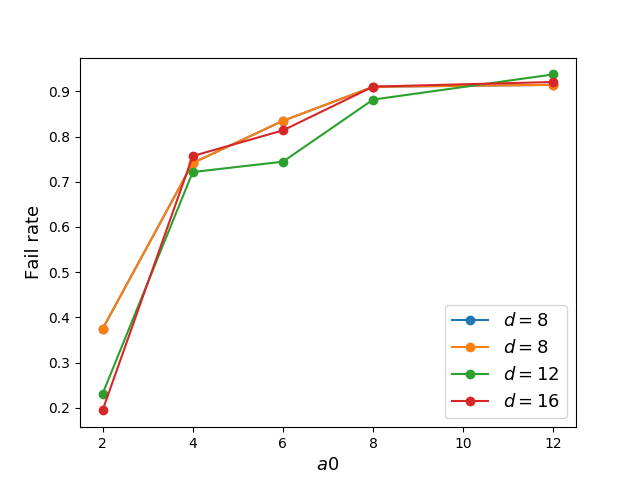
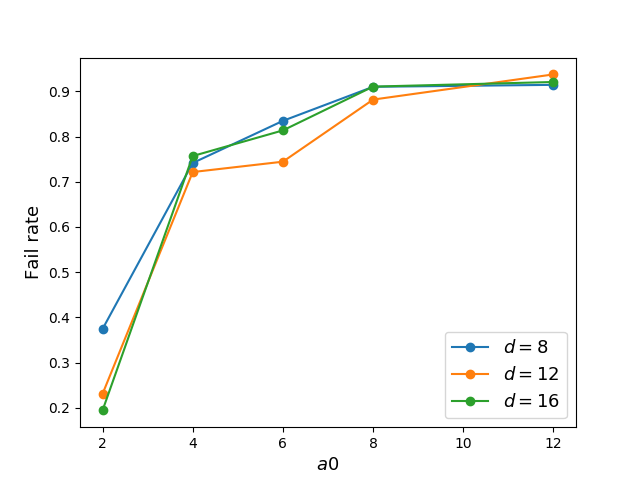
thresholds

diff --git a/graphs/threshold.py b/graphs/threshold.py
@@ -15,24 +15,24 @@ GHZ3_16 = [.1945, .7569, .8136, .9104, .9206]
 
 
 # Over eta
-eta = [1/30, 1/40, 1/50, 1/60, 1/70, 1/80]
-GHZ_8 = [0.0144, 0.0449, 0.8002, 0.934, 0.9362, 0.9372]
-GHZ_12 = [0.0014, 0.0093, 0.8289, 0.9401, 0.9425, 0.9493]
-GHZ_16 = [0.0009, 0.003, 0.8117, 0.944, 0.949, 0.953]
+# eta = [1/30, 1/40, 1/50, 1/60, 1/70, 1/80]
+# GHZ_8 = [0.0144, 0.0449, 0.8002, 0.934, 0.9362, 0.9372]
+# GHZ_12 = [0.0014, 0.0093, 0.8289, 0.9401, 0.9425, 0.9493]
+# GHZ_16 = [0.0009, 0.003, 0.8117, 0.944, 0.949, 0.953]
 
 
-# plt.plot(a03, GHZ3_8, 'o-', label=r"$d=8$")
-# plt.plot(a03, GHZ3_12, 'o-', label=r"$d=12$")
-# plt.plot(a03, GHZ3_16, 'o-', label=r"$d=16$")
+plt.plot(a03, GHZ3_8, 'o-', label=r"$d=8$")
+plt.plot(a03, GHZ3_12, 'o-', label=r"$d=12$")
+plt.plot(a03, GHZ3_16, 'o-', label=r"$d=16$")
 
 
-plt.plot(eta, GHZ_8, 'o-', label=r"$d=8$")
-plt.plot(eta, GHZ_12, 'o-', label=r"$d=12$")
-plt.plot(eta, GHZ_16, 'o-', label=r"$d=16$")
+# plt.plot(eta, GHZ_8, 'o-', label=r"$d=8$")
+# plt.plot(eta, GHZ_12, 'o-', label=r"$d=12$")
+# plt.plot(eta, GHZ_16, 'o-', label=r"$d=16$")
 
 
 # plt.ylim([0.4, 1])
 plt.ylabel(r"Fail rate", fontsize=13)
-plt.xlabel(r"$\eta$", fontsize=13)
+plt.xlabel(r"$a0$", fontsize=13)
 plt.legend(fontsize=13)
 plt.show()
